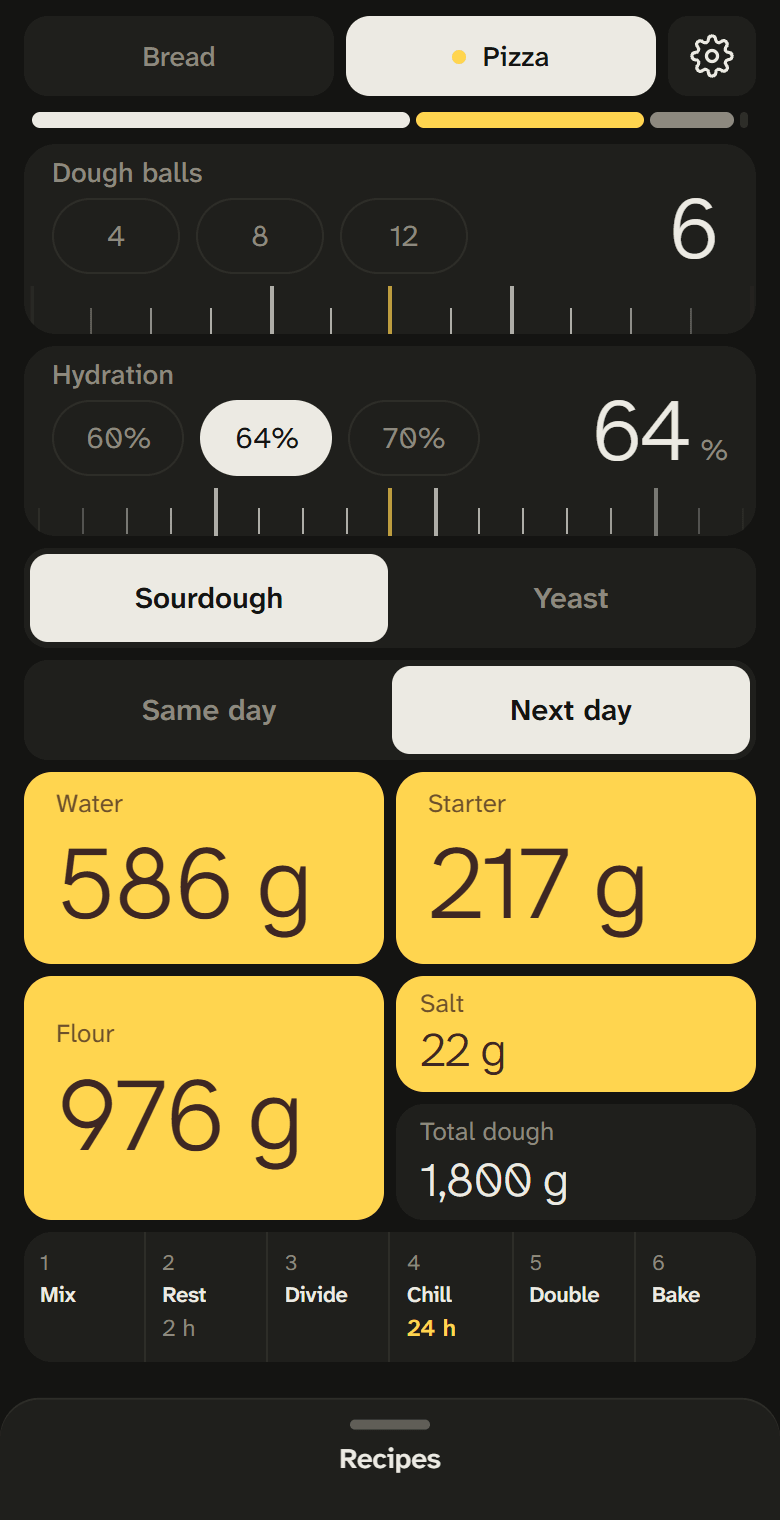
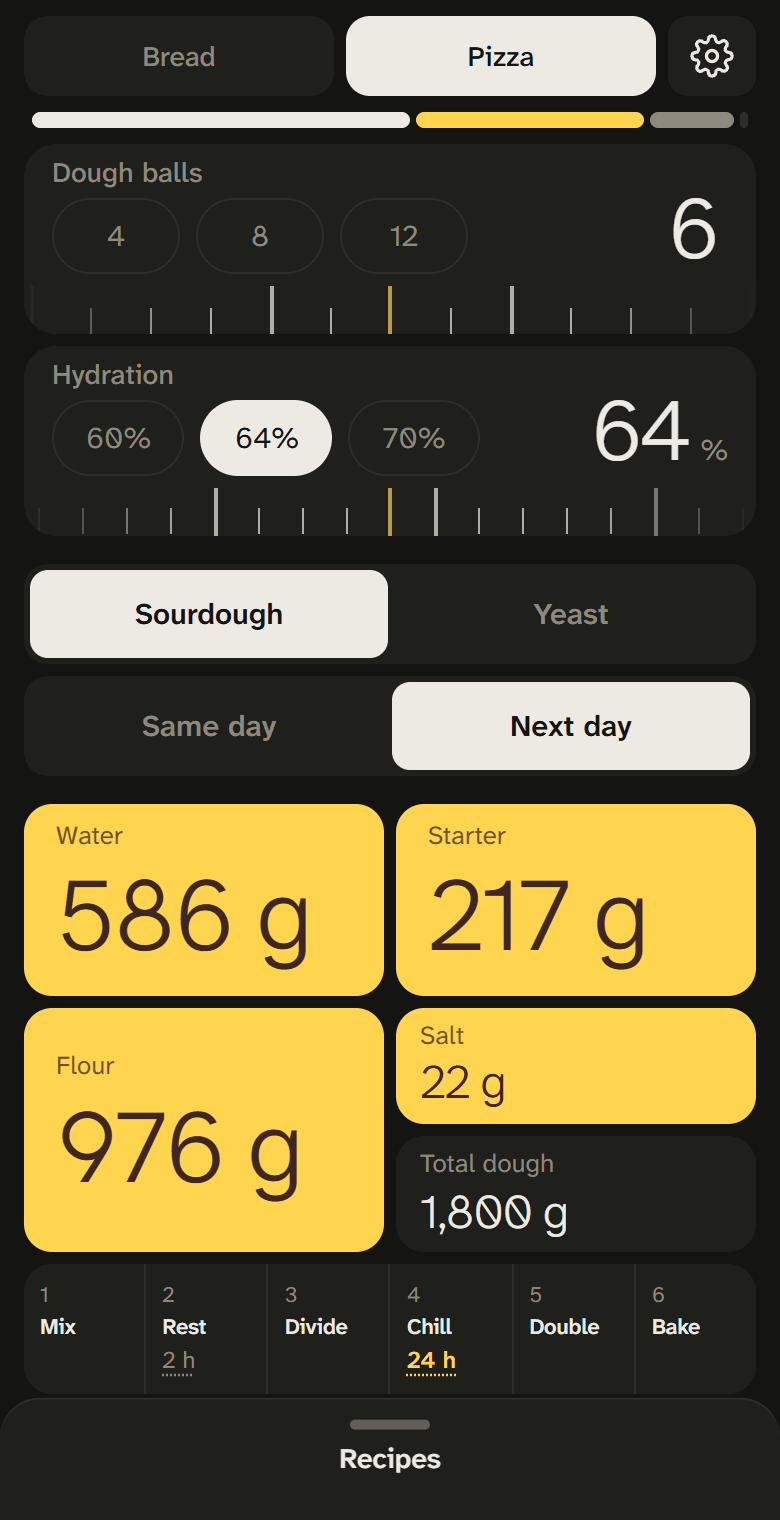
Refresh the marketing page: new screenshots, timers, new social preview

diff --git a/README.md b/README.md
@@ -8,14 +8,16 @@ A dough calculator for bread and pizza. Drag a wheel, tap a preset, and get ever
 
 | Bread | Pizza |
 | :---: | :---: |
-| <img src="docs/bake-bread-light.png" width="300" alt="Bake bread calculator in light mode: 1,200 g flour, 70 percent hydration, 10 percent starter"> | <img src="docs/bake-pizza-dark.png" width="300" alt="Bake pizza calculator in dark mode: six dough balls, sourdough, next day"> |
-| <img src="docs/bake-bread-dark.png" width="300" alt="Bake bread calculator in dark mode"> | <img src="docs/bake-pizza-light.png" width="300" alt="Bake pizza calculator in light mode"> |
+| <img src="docs/bake-bread-light.png" width="300" alt="Bake bread calculator in light mode: 1,200 g flour, 70 percent hydration, 10 percent starter, rest timer running"> | <img src="docs/bake-pizza-dark.png" width="300" alt="Bake pizza calculator in dark mode: six dough balls, sourdough, next day"> |
+| <img src="docs/bake-timer-dark.png" width="300" alt="Bake timers: a 4 hour rest and a 30 minute fold timer running, with Add to calendar buttons"> | <img src="docs/bake-pizza-light.png" width="300" alt="Bake pizza calculator in light mode"> |
 
 ## What it does
 
 - **Bread** with sourdough or with yeast, **pizza** with sourdough or with instant yeast, same day or next day.
-- **Wheels instead of fields.** Drag anywhere on a card to change a value. The ruler follows your finger, with a click on every step and a firmer one on round numbers.
+- **Wheels instead of fields.** Drag anywhere on a card to change a value, even starting on a preset button. The ruler follows your finger, with a small click on every step.
 - **The amounts you pour and scoop come first:** water, the leavening, flour (for pizza) and salt are highlighted. Total dough is there, but quiet.
+- **Timers for the long steps.** Tap the time of a step (the 4 h rest, the 24 h chill) to start a timer. Sourdough rests also get a 30 minute timer for the folds. A timer remembers when it ends, so it is right after you close the app. **Add to calendar** puts it in your phone's calendar with an alert at the end.
+- **The bake step says what to set the oven to:** 235 °C for 45 minutes.
 - **Presets** for the amounts you use most (800 g and 1200 g flour, 65 % and 70 % hydration, 5 % and 10 % starter).
 - **Saved recipes** in a drawer at the bottom. Pull it up with your thumb, name the recipe, load it later.
 - **English and Slovenščina**, light, dark or system theme, sound and haptics you can turn off. All in the settings at the top right.
